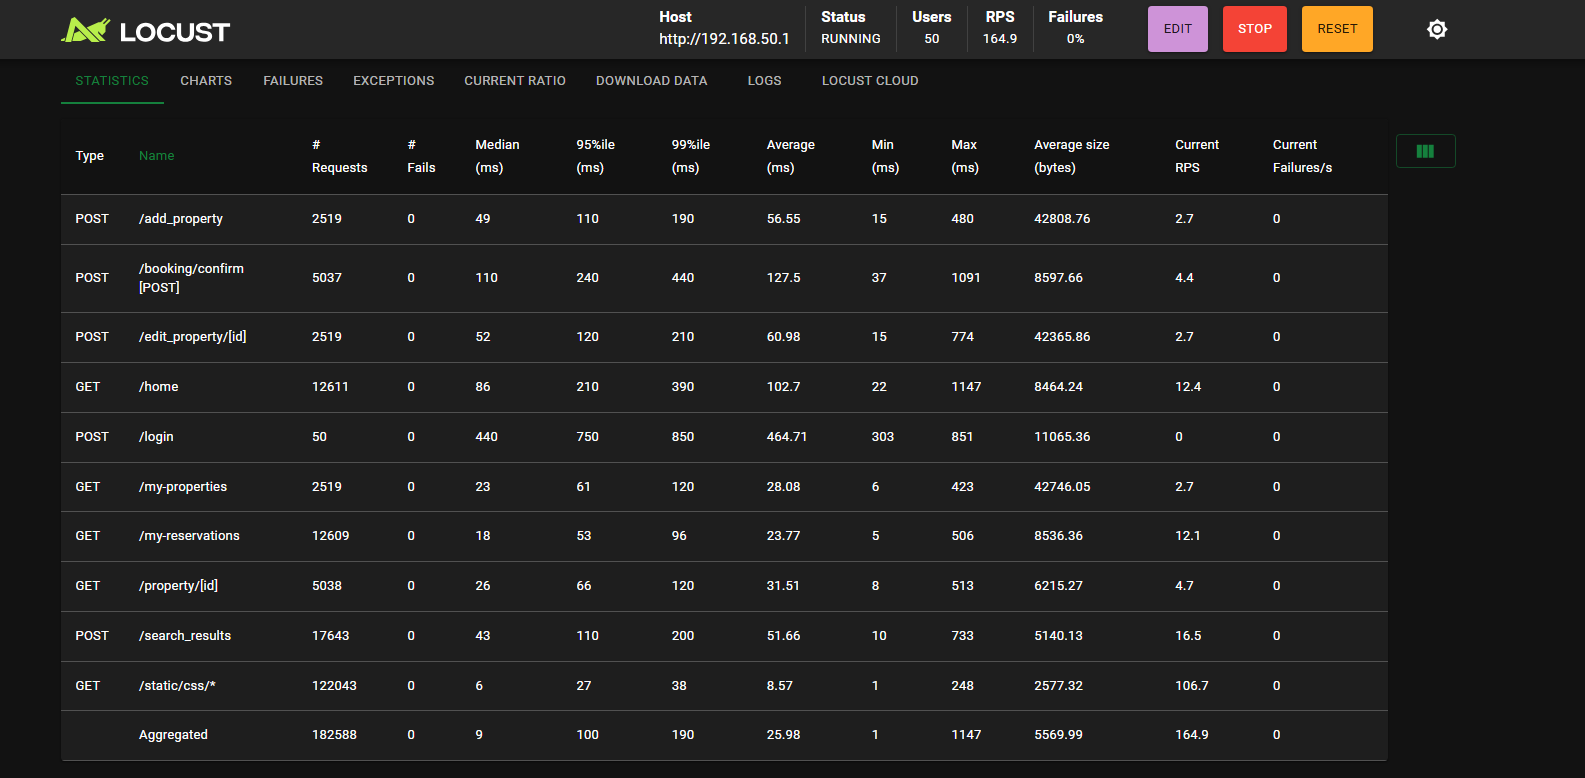
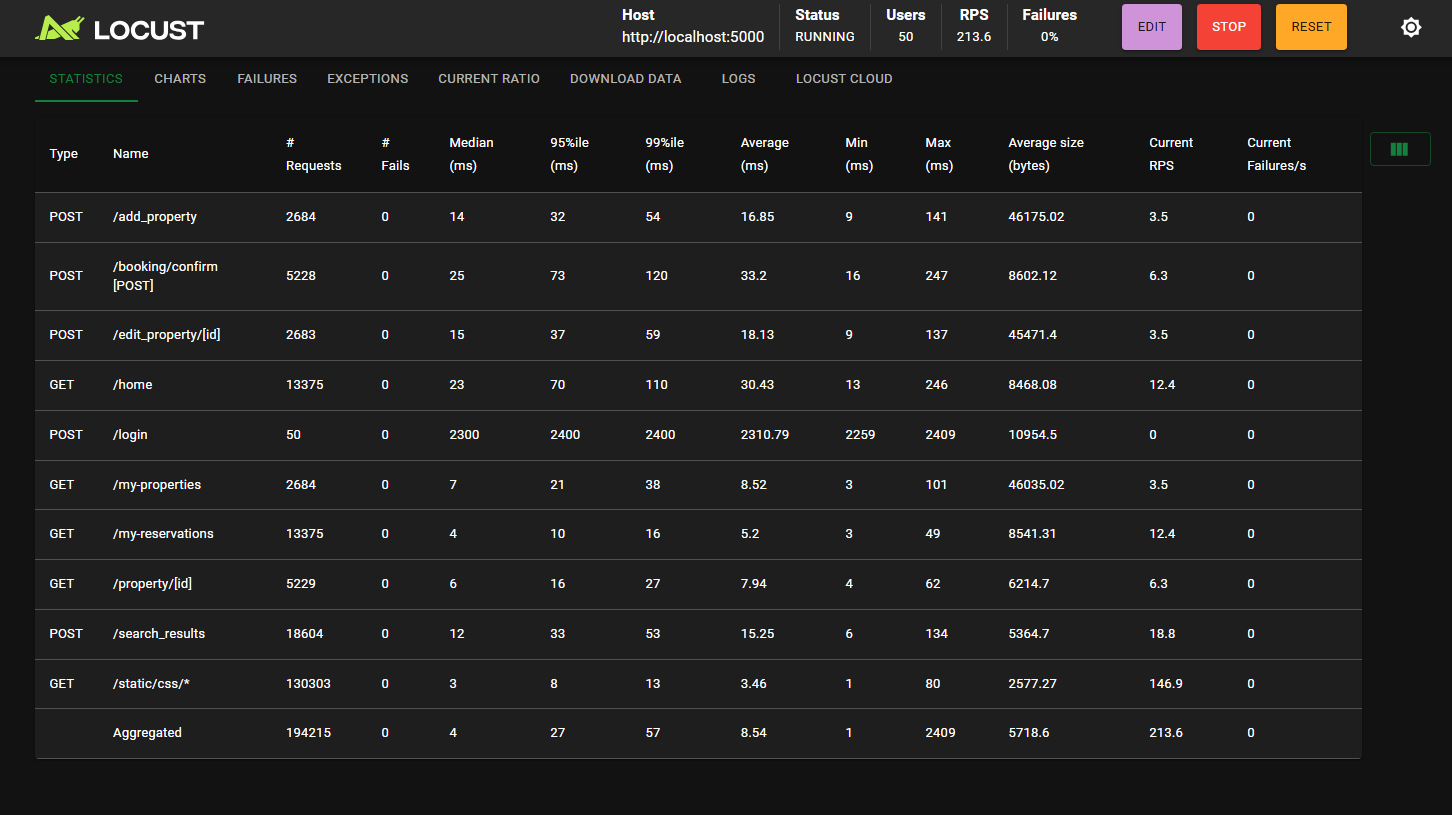
NN

diff --git a/aaa/caz 2/locustfile.py b/aaa/caz 2/locustfile.py
@@ -4,123 +4,96 @@ import time
 from datetime import datetime, timedelta
 from locust import HttpUser, task, between
 
-class TotalChaosUser(HttpUser):
-    """
-    Simulează un utilizator extrem de agresiv care bombardează serverul
-    cu toate tipurile posibile de cereri pentru a stresa la maximum sistemul.
-    """
-    wait_time = between(0.5, 1.5) # Pauze foarte scurte pentru presiune maximă
+class FlaskOnlyUser(HttpUser):
+    wait_time = between(0.5, 2.5)
     
-    # !!! IMPORTANT: Schimbă host-ul în funcție de testul pe care îl rulezi !!!
-    
-    # --- PENTRU CAZUL 1 (Nginx + IIS + Master-Slave) ---
-    host = "http://localhost:5000"
-    
-    # --- PENTRU CAZUL 2 (doar Flask, fără Nginx) ---
-    # host = "http://localhost:5000"
+    # --- MODIFICAT PENTRU FLASK ---
+    # Asigură-te că aceasta este adresa și portul corect al serverului tău Flask
+    host = "http://localhost:5000" 
     
     EXISTING_USER_CREDENTIALS = {f"test{i}": "parola123" for i in range(1, 51)}
     
     def on_start(self):
-        """ Se loghează o singură dată la începutul sesiunii. """
-        time.sleep(random.uniform(0, 5)) # Pauză mai mare la început pentru a gestiona login-urile
+        time.sleep(random.uniform(0, 5))
         self.username = random.choice(list(self.EXISTING_USER_CREDENTIALS.keys()))
         self.password = self.EXISTING_USER_CREDENTIALS[self.username]
         self.client.post("/login", data={"username": self.username, "password": self.password}, name="/login")
 
-    @task
-    def chaos_test(self):
-        """Task principal care execută un amestec haotic de absolut toate acțiunile."""
-        
-        actions = [
-            self.browse_and_search,
-            self.manage_properties,
-            self.full_booking_flow,
-            self.spam_static_files,
-            self.update_profile
-        ]
-        
-        # Execută o acțiune la întâmplare la fiecare pas
-        random.choice(actions)()
-
+    @task(5)
     def browse_and_search(self):
-        """Accesează pagini de bază și face o căutare."""
-        self.client.get("/", name="/")
+        self.client.get("/", name="/home")
         self.client.get("/my-reservations", name="/my-reservations")
         start_date = datetime.now().date() + timedelta(days=random.randint(90, 150))
         end_date = start_date + timedelta(days=random.randint(2, 7))
         self.client.post("/search_results", data={"period": f"{start_date.isoformat()} to {end_date.isoformat()}", "destination": "Brasov", "adults": 2, "rooms": 1}, name="/search_results")
 
+    @task(1)
     def manage_properties(self):
-        """Adaugă, editează și șterge proprietăți."""
-        # Adaugă o proprietate nouă
         self.client.post("/add_property", data={
-            "name": f"Hotel Haos {random.randint(1, 1000)}", "address": "Strada Distrugerii",
-            "city": "Sibiu", "country": "Romania", "room_type_name": ["Cameră Haos"],
-            "room_count": ["1"], "capacity": ["2"], "price": ["999"], "available": ["1"]
+            "name": f"Hotel Stres Test {random.randint(1, 1000)}", "address": "Strada Testarii",
+            "city": "Sibiu", "country": "Romania", "room_type_name": ["Cameră de Test"],
+            "room_count": ["1"], "capacity": ["2"], "price": ["500"], "available": ["1"]
         }, name="/add_property")
 
-        # Găsește o proprietate existentă pentru a o edita/șterge
-        with self.client.get("/my-properties", name="/my-properties", catch_response=True) as response:
+        response = self.client.get("/my-properties", name="/my-properties")
+        if response.status_code == 200:
             edit_links = re.findall(r'href="/edit_property/(\d+)"', response.text)
             if edit_links:
                 prop_id = random.choice(edit_links)
                 self.client.post(f"/edit_property/{prop_id}", data={
-                    "name": f"Hotel Editat Haotic {random.randint(1, 1000)}", "address": "Strada Noua",
+                    "name": f"Hotel Editat Sub Stres {random.randint(1, 1000)}", "address": "Strada Noua",
                     "city": "Cluj", "country": "Romania", "room_type_name": ["Camera Editata"],
                     "room_count": ["1"], "capacity": ["1"], "price": ["100"], "available": ["1"]
                 }, name="/edit_property/[id]")
 
-            delete_links = re.findall(r'href="/delete_property/(\d+)"', response.text)
-            if delete_links:
-                prop_id_to_delete = random.choice(delete_links)
-                self.client.get(f"/delete_property/{prop_id_to_delete}", name="/delete_property/[id]")
-
+    @task(2)
     def full_booking_flow(self):
-        """Rulează un flux complet de la căutare la anulare."""
         start_date = datetime.now().date() + timedelta(days=random.randint(200, 300))
         end_date = start_date + timedelta(days=random.randint(2, 5))
         
-        with self.client.post("/search_results", data={"period": f"{start_date.isoformat()} to {end_date.isoformat()}", "destination": "Bucuresti", "adults": 1, "rooms": 1}, name="/search_results", catch_response=True) as search_response:
-            property_links = re.findall(r'href="(/property/\d+\?.*?)"', search_response.text)
-            if not property_links: return
+        search_response = self.client.post("/search_results", data={"period": f"{start_date.isoformat()} to {end_date.isoformat()}", "destination": "Bucuresti", "adults": 1, "rooms": 1}, name="/search_results")
+        if search_response.status_code != 200:
+            return
 
-            property_link = random.choice(property_links).replace("&amp;", "&")
-            with self.client.get(property_link, name="/property/[id]", catch_response=True) as prop_response:
-                booking_links = re.findall(r'href="(/booking/confirm\?.*?)"', prop_response.text)
-                if not booking_links:
-                    prop_response.success()
-                    return
+        property_links = re.findall(r'href="(/property/\d+\?.*?)"', search_response.text)
+        if not property_links: 
+            return
 
-                booking_link = random.choice(booking_links).replace("&amp;", "&")
-                room_ids = re.search(r'ids=([\d,]+)', booking_link).group(1)
-                start_str = re.search(r'start=([\d-]+)', booking_link).group(1)
-                end_str = re.search(r'end=([\d-]+)', booking_link).group(1)
+        property_link = random.choice(property_links).replace("&amp;", "&")
+        
+        prop_response = self.client.get(property_link, name="/property/[id]")
+        if prop_response.status_code != 200:
+            return
 
-                self.client.get(booking_link, name="/booking/confirm [GET]")
-                with self.client.post("/booking/confirm", data={"room_ids": room_ids, "start_date": start_str, "end_date": end_str, "full_name": "Test User", "phone": "0712345678", "email": "test@test.com"}, name="/booking/confirm [POST]", catch_response=True, allow_redirects=False) as conf_response:
-                    if conf_response.status_code == 302:
-                        conf_response.success()
-                        self.client.get("/booking/success", name="/booking/success")
+        booking_links = re.findall(r'href="(/booking/confirm\?.*?)"', prop_response.text)
+        if not booking_links: 
+            return
 
-        with self.client.get("/my-reservations", name="/my-reservations", catch_response=True) as res_response:
-            if res_response.status_code == 200:
-                reservation_ids = re.findall(r'href="/cancel_reservation/(\d+)"', res_response.text)
-                if reservation_ids:
-                    res_id = random.choice(reservation_ids)
-                    self.client.get(f"/cancel_reservation/{res_id}", name="/cancel_reservation/[id]")
+        booking_link = random.choice(booking_links).replace("&amp;", "&")
+        self.client.post(booking_link, name="/booking/confirm [POST]", data={"full_name": "Test User", "phone": "0712345678", "email": "test@test.com"})
 
+    @task(3)
     def spam_static_files(self):
-        """Cere toate fișierele statice pentru a stresa serverul."""
+        # --- CORECTAT AICI ---
+        # Am adăugat înapoi prefixul /static/ la toate fișierele
         static_files = [
-            "/static/css/style_home.css", "/static/css/style_login.css",
-            "/static/css/style_profile.css", "/static/css/style_admin.css",
-            "/static/css/style_my_properties.css", "/static/css/style_my_reservations.css"
+            "/static/css/style_add_property.css",
+            "/static/css/style_admin.css",
+            "/static/css/style_booking_confirmation.css",
+            "/static/css/style_edit_profile.css",
+            "/static/css/style_edit_property.css",
+            "/static/css/style_home.css",
+            "/static/css/style_login.css",
+            "/static/css/style_manage_property_reservations.css",
+            "/static/css/style_my_properties.css",
+            "/static/css/style_my_reservations.css",
+            "/static/css/style_profile.css",
+            "/static/css/style_register.css",
+            "/static/css/style_reservation_success.css",
+            "/static/css/style_reserve.css",
+            "/static/css/style_search_results.css",
+            "/static/css/style_view_property.css"
         ]
         for file_path in static_files:
-            self.client.get(file_path, name="/static/all_css")
-            
-    def update_profile(self):
-        """Accesează profilul și îl editează."""
-        self.client.get("/profile", name="/profile")
-        self.client.post("/edit-profile", data={"username": self.username, "email": f"haos_{self.username}@test.com", "current_password": self.password, "new_password": "", "confirm_new_password": ""}, name="/edit-profile")
+            # Am schimbat numele grupului pentru a reflecta noua cale
+            self.client.get(file_path, name="/static/css/*")
